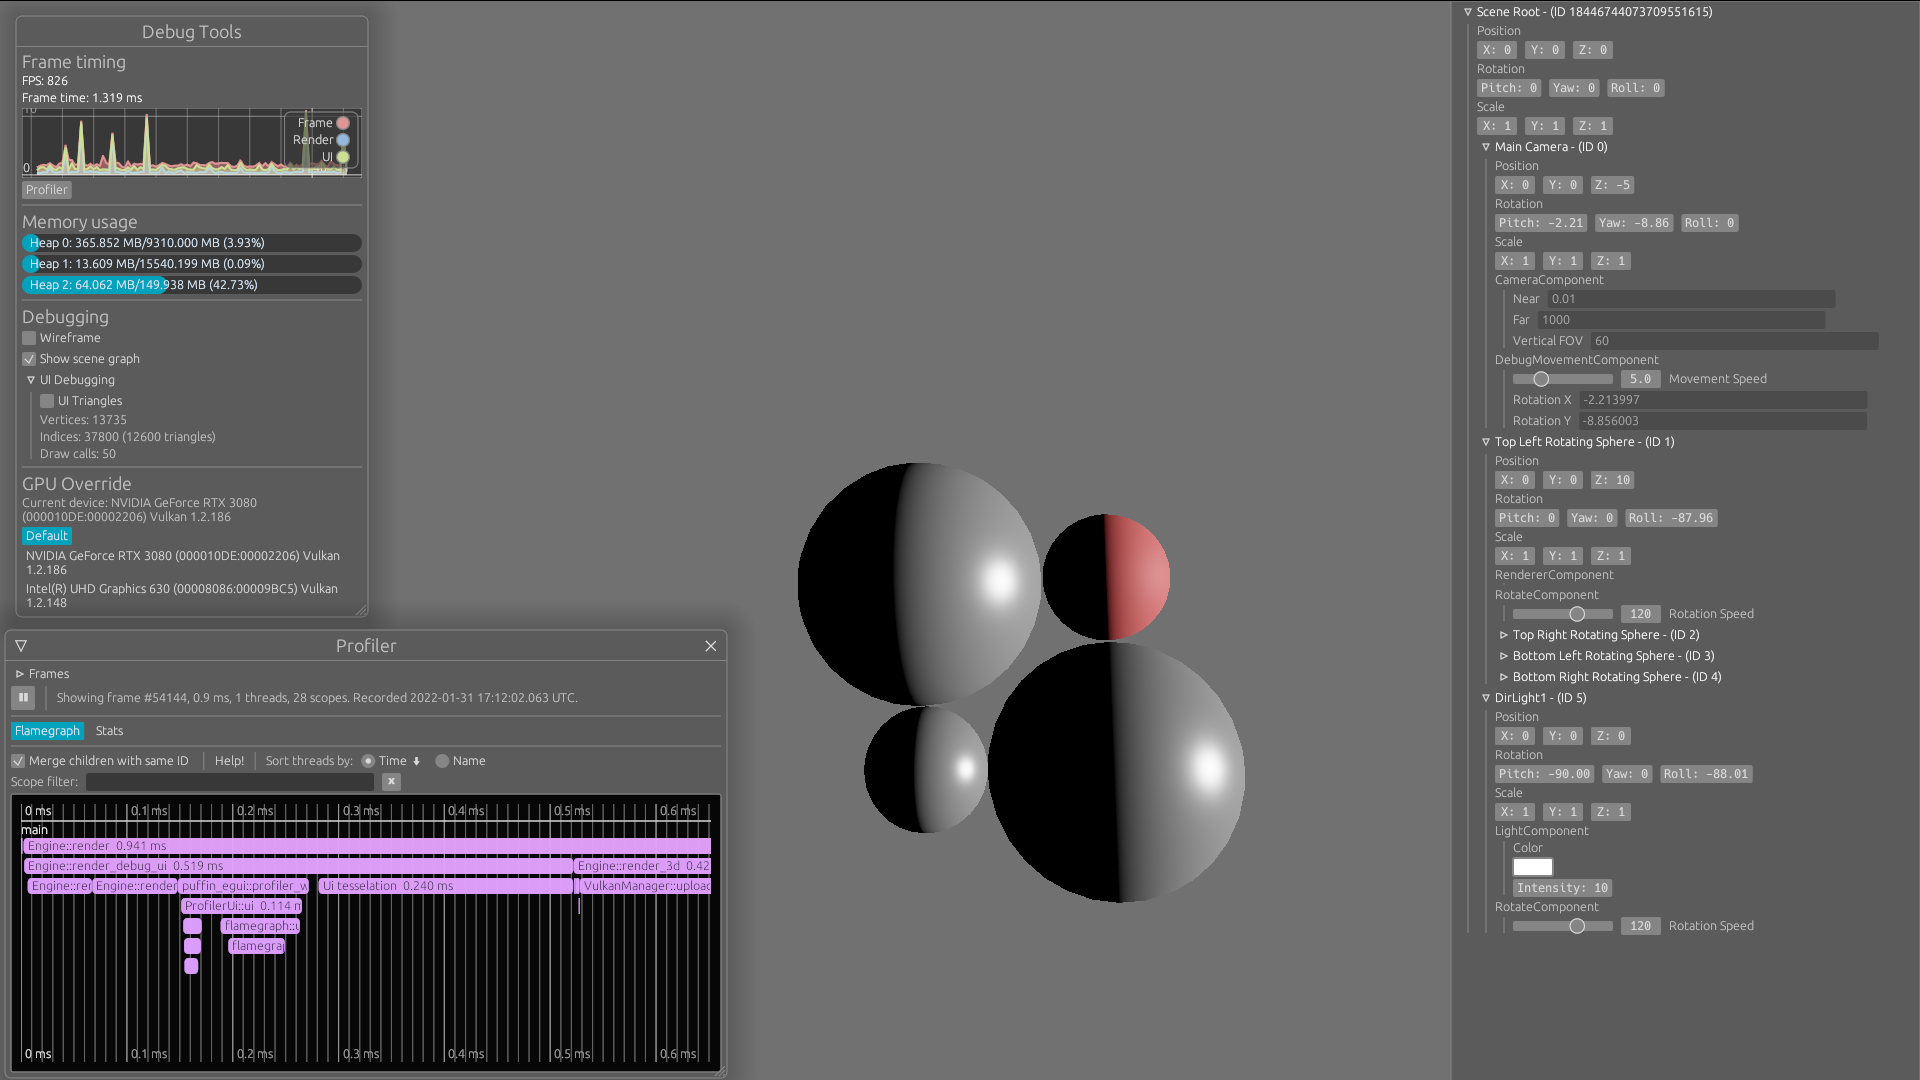
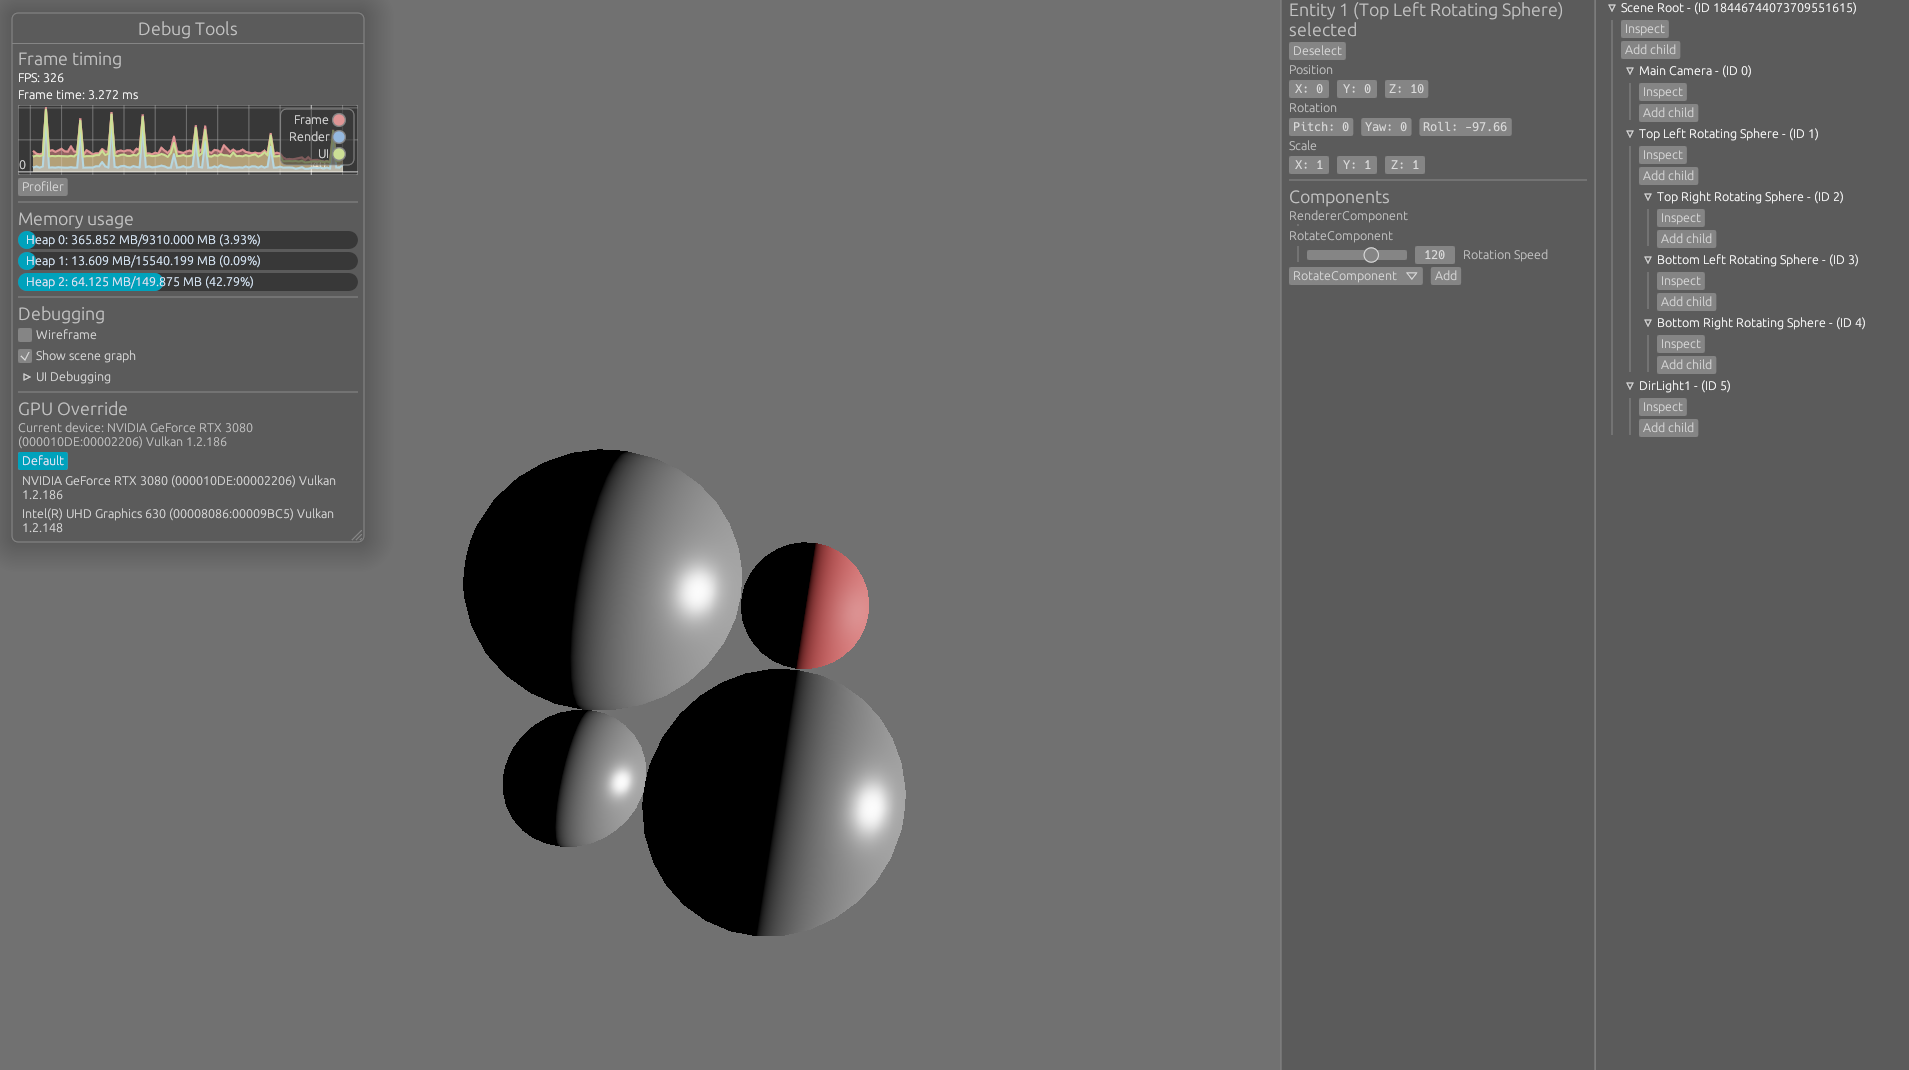
Implemented Inspector window and component creation

diff --git a/crates/engine/src/core/engine.rs b/crates/engine/src/core/engine.rs
@@ -8,14 +8,22 @@ use std::{
 use ash::vk;
 use egui::{
     plot::{Legend, Line, Plot, Value, Values},
-    CollapsingHeader, Color32, DragValue, ProgressBar, RichText, ScrollArea,
+    CollapsingHeader, Color32, ComboBox, CtxRef, DragValue, ProgressBar, RichText, ScrollArea,
+    SidePanel,
 };
 use gfx_maths::Quaternion;
 use serde::{Deserialize, Serialize};
 
 use crate::{
     core::{gameloop::GameLoop, input::Input, window},
-    scene::{component::Component, entity::Entity, Scene},
+    scene::{
+        component::{
+            camera_component::CameraComponent, debug_movement_component::DebugMovementComponent,
+            light_component::LightComponent, renderer::RendererComponent, Component,
+        },
+        entity::Entity,
+        Scene,
+    },
     vulkan::{self, RendererConfig, VulkanManager},
 };
 
@@ -102,14 +110,29 @@ impl EngineInit {
                 #[cfg(feature = "profiler")]
                 profiler_visible: false,
                 config: read_config(),
+
+                component_factories: Vec::new(),
+                selected_entity: None,
+                selected_factory: 0,
             },
         })
     }
 
-    pub fn start(self) -> ! {
+    pub fn start(mut self) -> ! {
+        self.engine
+            .register_component::<RendererComponent>("RendererComponent".to_string());
+        self.engine
+            .register_component::<LightComponent>("LightComponent".to_string());
+        self.engine
+            .register_component::<DebugMovementComponent>("DebugMovementComponent".to_string());
+        self.engine
+            .register_component::<CameraComponent>("CameraComponent".to_string());
+
         window::start(self);
     }
 }
+
+pub type ComponentFactoryFn = fn(&Rc<Entity>) -> Rc<dyn Component>;
 
 pub struct Engine {
     pub info: EngineInfo,
@@ -143,11 +166,19 @@ pub struct Engine {
     #[cfg(feature = "profiler")]
     profiler_visible: bool,
     config: EngineConfig,
+
+    component_factories: Vec<(String, ComponentFactoryFn)>,
+    selected_entity: Option<Rc<Entity>>,
+    selected_factory: usize,
 }
 
 impl Engine {
     pub fn init(&self) {
         self.gameloop.init();
+    }
+
+    pub fn register_component<T: Component + 'static>(&mut self, name: String) {
+        self.component_factories.push((name, |e| T::create(e)));
     }
 
     fn render_component(ui: &mut egui::Ui, component: &dyn Component) {
@@ -157,60 +188,117 @@ impl Engine {
         });
     }
 
-    fn render_entity(ui: &mut egui::Ui, entity: &Entity) {
+    fn render_inspector(
+        ctx: &CtxRef,
+        selected_entity: &mut Option<Rc<Entity>>,
+        selected_factory: &mut usize,
+        factories: &[(String, ComponentFactoryFn)],
+    ) {
+        SidePanel::right("inspector")
+            .resizable(true)
+            .show(ctx, |ui| {
+                ScrollArea::vertical().show(ui, |ui| {
+                    if let Some(entity) = selected_entity {
+                        ui.heading(format!("Entity {} ({}) selected", entity.id, &entity.name));
+
+                        if ui.button("Deselect").clicked() {
+                            *selected_entity = None;
+                            return;
+                        }
+
+                        let mut transform = entity.transform.borrow_mut();
+
+                        ui.label("Position");
+                        ui.horizontal(|ui| {
+                            ui.add(DragValue::new(&mut transform.position.x).prefix("X: "));
+                            ui.add(DragValue::new(&mut transform.position.y).prefix("Y: "));
+                            ui.add(DragValue::new(&mut transform.position.z).prefix("Z: "));
+                        });
+
+                        ui.label("Rotation");
+                        ui.horizontal(|ui| {
+                            let mut euler = transform.rotation.to_euler_angles_zyx();
+
+                            if ui
+                                .add(
+                                    DragValue::new(&mut euler.x)
+                                        .prefix("Pitch: ")
+                                        .max_decimals(2),
+                                )
+                                .changed()
+                                || ui
+                                    .add(
+                                        DragValue::new(&mut euler.y)
+                                            .prefix("Yaw: ")
+                                            .max_decimals(2),
+                                    )
+                                    .changed()
+                                || ui
+                                    .add(
+                                        DragValue::new(&mut euler.z)
+                                            .prefix("Roll: ")
+                                            .max_decimals(2),
+                                    )
+                                    .changed()
+                            {
+                                transform.rotation = Quaternion::from_euler_angles_zyx(&euler);
+                            }
+                        });
+
+                        ui.label("Scale");
+                        ui.horizontal(|ui| {
+                            ui.add(DragValue::new(&mut transform.scale.x).prefix("X: "));
+                            ui.add(DragValue::new(&mut transform.scale.y).prefix("Y: "));
+                            ui.add(DragValue::new(&mut transform.scale.z).prefix("Z: "));
+                        });
+
+                        ui.separator();
+
+                        ui.heading("Components");
+
+                        for comp in &*entity.components.borrow() {
+                            Self::render_component(ui, &**comp);
+                        }
+
+                        ui.horizontal(|ui| {
+                            ComboBox::from_id_source("factory_selection").show_index(
+                                ui,
+                                selected_factory,
+                                factories.len(),
+                                |i| factories[i].0.clone(),
+                            );
+
+                            if ui.button("Add").clicked() {
+                                entity.new_component_with_factory(factories[*selected_factory].1);
+                            }
+                        });
+                    } else {
+                        ui.heading("Inspector");
+                    }
+                });
+                ui.allocate_space(ui.available_size());
+            });
+    }
+
+    fn render_entity(
+        ui: &mut egui::Ui,
+        entity: &Rc<Entity>,
+        selected_entity: &mut Option<Rc<Entity>>,
+    ) {
         ui.collapsing(
             RichText::new(format!("{} - (ID {})", entity.name, entity.id)).strong(),
             |ui| {
-                let mut transform = entity.transform.borrow_mut();
+                if ui.button("Inspect").clicked() {
+                    *selected_entity = Some(entity.clone());
+                }
 
-                ui.label("Position");
-                ui.horizontal(|ui| {
-                    ui.add(DragValue::new(&mut transform.position.x).prefix("X: "));
-                    ui.add(DragValue::new(&mut transform.position.y).prefix("Y: "));
-                    ui.add(DragValue::new(&mut transform.position.z).prefix("Z: "));
-                });
-
-                ui.label("Rotation");
-                ui.horizontal(|ui| {
-                    let mut euler = transform.rotation.to_euler_angles_zyx();
-
-                    if ui
-                        .add(
-                            DragValue::new(&mut euler.x)
-                                .prefix("Pitch: ")
-                                .max_decimals(2),
-                        )
-                        .changed()
-                        || ui
-                            .add(DragValue::new(&mut euler.y).prefix("Yaw: ").max_decimals(2))
-                            .changed()
-                        || ui
-                            .add(
-                                DragValue::new(&mut euler.z)
-                                    .prefix("Roll: ")
-                                    .max_decimals(2),
-                            )
-                            .changed()
-                    {
-                        transform.rotation = Quaternion::from_euler_angles_zyx(&euler);
-                    }
-                });
-
-                ui.label("Scale");
-                ui.horizontal(|ui| {
-                    ui.add(DragValue::new(&mut transform.scale.x).prefix("X: "));
-                    ui.add(DragValue::new(&mut transform.scale.y).prefix("Y: "));
-                    ui.add(DragValue::new(&mut transform.scale.z).prefix("Z: "));
-                });
-
-                let components = entity.components.borrow();
-                for comp in &*components {
-                    Self::render_component(ui, &**comp);
+                if ui.button("Add child").clicked() {
+                    entity.add_new_child("New Entity".to_string());
                 }
 
                 let children = entity.children.borrow();
                 for child in &*children {
-                    Self::render_entity(ui, child);
+                    Self::render_entity(ui, child, selected_entity);
                 }
             },
         );
@@ -512,7 +600,7 @@ impl Engine {
             });
     }
 
-    fn render_scene_graph(&self, ctx: &egui::CtxRef) {
+    fn render_scene_graph(&mut self, ctx: &egui::CtxRef) {
         profile_function!();
 
         let root_entity = self.scene.root_entity.borrow();
@@ -521,7 +609,7 @@ impl Engine {
                 .resizable(true)
                 .show(ctx, |ui| {
                     ScrollArea::vertical().show(ui, |ui| {
-                        Self::render_entity(ui, &root_entity);
+                        Self::render_entity(ui, &root_entity, &mut self.selected_entity);
                     });
                     ui.allocate_space(ui.available_size());
                 });
@@ -540,6 +628,15 @@ impl Engine {
             self.render_debug_tools_window(ctx, frame_time);
 
             self.render_scene_graph(ctx);
+
+            if self.scene_graph_visible {
+                Self::render_inspector(
+                    ctx,
+                    &mut self.selected_entity,
+                    &mut self.selected_factory,
+                    &self.component_factories,
+                );
+            }
 
             #[cfg(feature = "profiler")]
             if self.profiler_visible && !puffin_egui::profiler_window(ctx) {
@@ -573,6 +670,7 @@ impl Engine {
 
 impl Drop for Engine {
     fn drop(&mut self) {
+        self.selected_entity = None;
         self.vulkan_manager.wait_idle();
     }
 }

diff --git a/crates/engine/src/scene/entity.rs b/crates/engine/src/scene/entity.rs
@@ -118,8 +118,24 @@ impl Entity {
         new_parent.add_child(self.clone());
     }
 
+    pub fn add_new_child(self: &Rc<Entity>, name: String) -> Rc<Entity> {
+        let scene = self.scene.upgrade().unwrap();
+        Self::new(&scene, self, name)
+    }
+
     pub fn new_component<T: 'static + Component>(self: &Rc<Self>) -> Rc<T> {
         let comp = T::create(self);
+
+        self.components.borrow_mut().push(comp.clone());
+
+        comp
+    }
+
+    pub fn new_component_with_factory<Factory: FnOnce(&Rc<Self>) -> Rc<dyn Component>>(
+        self: &Rc<Self>,
+        factory: Factory,
+    ) -> Rc<dyn Component> {
+        let comp = factory(self);
 
         self.components.borrow_mut().push(comp.clone());
 

diff --git a/crates/engine/examples/components/main.rs b/crates/engine/examples/components/main.rs
@@ -31,6 +31,9 @@ fn main() {
 }
 
 fn setup(engine: &mut Engine) {
+    engine.register_component::<RotateComponent>("RotateComponent".to_string());
+    engine.register_component::<ScaleComponent>("ScaleComponent".to_string());
+
     let scene = &mut engine.scene;
 
     // pipeline setup
